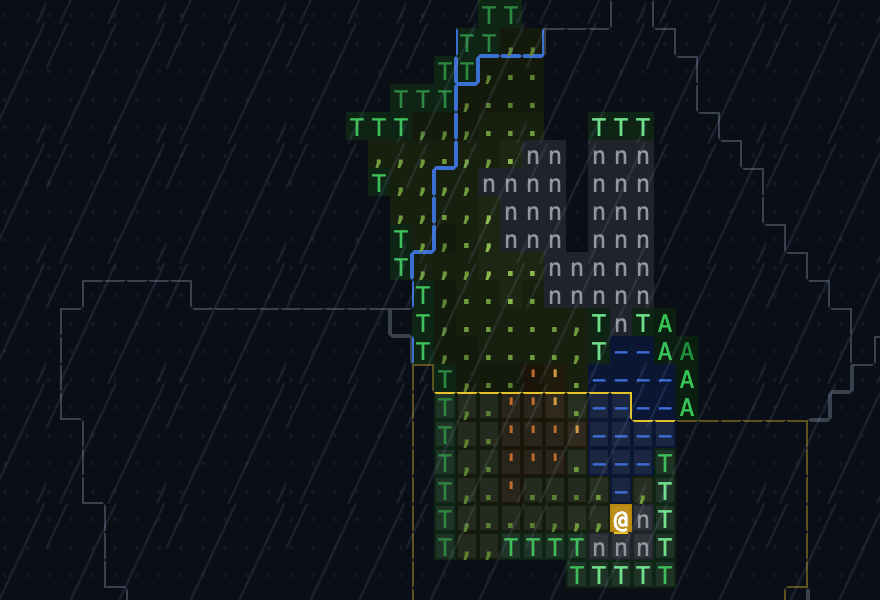
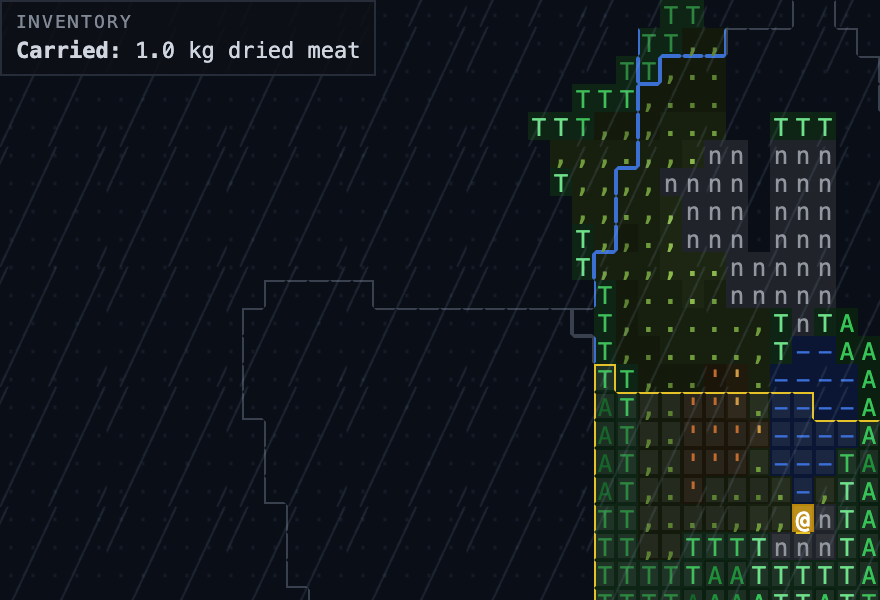
fix(survidle): make map layer order explicit

diff --git a/08-survidle/src/style.css b/08-survidle/src/style.css
@@ -378,7 +378,7 @@ button.act small.warn, span.act small.warn, .opt.off span.act small.warn { color
 }
 /* A place row points out its destination without making ordinary map hover
    leave a highlight behind. main.ts adds and removes this class directly. */
-.grid .c.target { outline: 1px solid var(--accent); outline-offset: -1px; z-index: 2; }
+.grid .c.target { outline: 1px solid var(--accent); outline-offset: -1px; z-index: var(--map-signal); }
 
 /* The ways out, over the map's top right. They sit on the ground they lead
    off rather than at the foot of a panel a player had to find first. */
@@ -438,7 +438,17 @@ button.act small.warn, span.act small.warn, .opt.off span.act small.warn { color
 /* The chain of min-height: 0 that lets the board give way to the panels
    under it: a flex child will not shrink below its content without it, so
    the grid would push the Do pane off the screen instead of scrolling. */
-#mapdyn { position: relative; flex: 1; min-height: 0; display: flex; flex-direction: column; }
+#mapdyn {
+  position: relative; flex: 1; min-height: 0; display: flex; flex-direction: column;
+  /* One stack names every map surface, including controls that are siblings of
+     the viewport. The viewport isolates its own terrain and atmosphere below. */
+  --map-ground: 0;
+  --map-shade: 1;
+  --map-weather: 2;
+  --map-route: 3;
+  --map-signal: 4;
+  --map-control: 5;
+}
 /* The world moves under the survivor; the viewport never pans. A fixed-size
    grid is centred and clipped, while any spare area carries the same grain
    as unknown ground instead of exposing the panel as a black bar. */
@@ -453,7 +463,10 @@ button.act small.warn, span.act small.warn, .opt.off span.act small.warn { color
   background-size: var(--px) var(--line);
   background-position: center;
   --bright: 1; --sat: 1; --tint: rgb(0, 0, 0); --tint-a: 0;
+  /* Ground has no positioned lift. The named layers inherited from #mapdyn
+     keep DOM order from quietly putting weather behind opaque terrain again. */
   position: relative;
+  isolation: isolate;
   filter: saturate(var(--sat));
   transition: filter 0.5s linear;
 }
@@ -481,7 +494,7 @@ button.act small.warn, span.act small.warn, .opt.off span.act small.warn { color
 }
 /* The atmosphere covers the whole viewport, including synthetic unexplored padding. */
 .scroll-x > .shade {
-  position: absolute; inset: 0; pointer-events: none;
+  position: absolute; inset: 0; z-index: var(--map-shade); pointer-events: none;
   background: #000;
   opacity: calc(1 - var(--bright));
   transition: opacity 0.5s linear;
@@ -495,7 +508,7 @@ button.act small.warn, span.act small.warn, .opt.off span.act small.warn { color
    panel of its own. It is nice to have and it is not what anybody came to
    the map to read, so it takes no border and no full-sized type. */
 .maptools {
-  position: absolute; left: 6px; bottom: 6px; z-index: 3;
+  position: absolute; left: 6px; bottom: 6px; z-index: var(--map-control);
   display: flex; gap: 5px; align-items: center;
   font-size: 10px;
   opacity: 0.7;
@@ -513,9 +526,9 @@ button.act small.warn, span.act small.warn, .opt.off span.act small.warn { color
 .grid:focus-visible { outline: 1px solid var(--accent); outline-offset: 2px; }
 .grid .c:focus-visible { outline: 1px solid var(--accent); outline-offset: -1px; }
 .legend .fog-key { color: #4a5160; }
-/* Your walk: a line through the glyph centres, solid ahead, dashed behind. It sits after the shade
-   and carries no z-index, so it is over the night and under the @ and the fire glow. */
-.grid .walk { position: absolute; inset: 0; width: 100%; height: 100%; pointer-events: none; overflow: hidden; }
+/* Your walk: a line through the glyph centres, solid ahead, dashed behind. Its
+   named layer keeps it over weather and night, under the @ and fire glow. */
+.grid .walk { position: absolute; inset: 0; z-index: var(--map-route); width: 100%; height: 100%; pointer-events: none; overflow: hidden; }
 /* non-scaling-stroke keeps the stroke in screen pixels under the stretched viewBox. */
 polyline.walk-ahead, polyline.walk-behind { fill: none; vector-effect: non-scaling-stroke; stroke-linejoin: round; stroke-linecap: round; }
 polyline.walk-ahead { stroke: rgba(230, 194, 41, 0.9); stroke-width: 2px; }
@@ -526,14 +539,14 @@ polyline.walk-behind { stroke: rgba(230, 194, 41, 0.45); stroke-width: 1.5px; st
 .legend .pl-key { text-decoration: underline; text-decoration-color: #e6c229; }
 /* The light of the hour, laid over the glyphs. */
 .scroll-x::after {
-  content: ""; position: absolute; inset: 0; pointer-events: none;
+  content: ""; position: absolute; inset: 0; z-index: var(--map-shade); pointer-events: none;
   background: var(--tint); opacity: var(--tint-a);
   mix-blend-mode: hard-light;
   transition: background 0.5s linear, opacity 0.5s linear;
 }
 /* Falling weather: faint streaks for rain, drifting dots for snow. */
 .scroll-x::before {
-  content: ""; position: absolute; inset: 0; pointer-events: none; opacity: 0;
+  content: ""; position: absolute; inset: 0; z-index: var(--map-weather); pointer-events: none; opacity: 0;
   transition: opacity 0.5s;
 }
 .scroll-x.rain::before {
@@ -700,7 +713,7 @@ polyline.walk-behind { stroke: rgba(230, 194, 41, 0.45); stroke-width: 1.5px; st
  * glow below rather than fog with the shelter and the trap.
  */
 .grid .c.mk { font-weight: bold; position: relative; }
-.grid .c.mk-player, .grid .c.mk-camp, .grid .c.mk-fire, .grid .c.mk-coals { z-index: 1; }
+.grid .c.mk-player, .grid .c.mk-camp, .grid .c.mk-fire, .grid .c.mk-coals { z-index: var(--map-signal); }
 .grid .c.mk-player { color: #fff; background: #b8860b; }
 .grid .c.mk-fire { color: #fff; background: #b8431a; }
 /* Dimmer than mk-fire's #b8431a: the same fire, banked. */
@@ -865,7 +878,7 @@ polyline.walk-behind { stroke: rgba(230, 194, 41, 0.45); stroke-width: 1.5px; st
   animation: flicker 1.1s ease-in-out infinite alternate;
 }
 .grid.night .c.lit-0 {
-  position: relative; z-index: 2;
+  position: relative; z-index: var(--map-signal);
   --f0: #ff7a1a; --f1: #ffb84d;
   animation: flicker 1.1s ease-in-out infinite alternate;
   animation-delay: var(--fd, 0s);
@@ -887,7 +900,7 @@ polyline.walk-behind { stroke: rgba(230, 194, 41, 0.45); stroke-width: 1.5px; st
 }
 .grid.night .c.lit-1, .grid.night .c.lit-2 { position: relative; }
 .grid.night .c.lit-1::after, .grid.night .c.lit-2::after {
-  content: ""; position: absolute; inset: 0; z-index: 2; pointer-events: none;
+  content: ""; position: absolute; inset: 0; z-index: var(--map-signal); pointer-events: none;
   animation: flicker 1.1s ease-in-out infinite alternate;
   animation-delay: var(--fd, 0s);
 }

diff --git a/08-survidle/tests/map-layers.test.ts b/08-survidle/tests/map-layers.test.ts
@@ -1,0 +1,52 @@
+import { readFileSync } from "node:fs";
+import { describe, expect, it } from "vitest";
+import { rule } from "./css";
+
+describe("the map's compositing layers", () => {
+  it("puts weather over the shaded ground and under routes, light, and essential marks", () => {
+    const viewport = rule(".scroll-x");
+    const layers = rule("#mapdyn");
+    expect(viewport).toContain("isolation: isolate");
+    for (const layer of ["ground: 0", "shade: 1", "weather: 2", "route: 3", "signal: 4", "control: 5"]) {
+      expect(layers).toContain(`--map-${layer}`);
+    }
+
+    expect(rule(".scroll-x > .shade")).toContain("z-index: var(--map-shade)");
+    expect(rule(".scroll-x::after")).toContain("z-index: var(--map-shade)");
+    expect(rule(".scroll-x::before")).toContain("z-index: var(--map-weather)");
+    expect(rule(".scroll-x::before")).toContain("pointer-events: none");
+    expect(rule(".grid .walk")).toContain("z-index: var(--map-route)");
+    expect(rule(".grid .c.mk-player, .grid .c.mk-camp, .grid .c.mk-fire, .grid .c.mk-coals"))
+      .toContain("z-index: var(--map-signal)");
+    expect(rule(".grid.night .c.lit-1::after, .grid.night .c.lit-2::after"))
+      .toContain("z-index: var(--map-signal)");
+    expect(rule(".maptools")).toContain("z-index: var(--map-control)");
+  });
+
+  it("keeps both kinds of falling weather animated without taking the pointer", () => {
+    const rain = rule(".scroll-x.rain::before");
+    const snow = rule(".scroll-x.snowing::before");
+    expect(rain).toContain("animation: rainfall");
+    expect(rain).toContain("opacity: 0.35");
+    expect(snow).toContain("animation: snowfall");
+    expect(snow).toContain("opacity: 0.6");
+  });
+
+  it("keeps night firelight and active survivor marks animated above the weather", () => {
+    expect(rule(".grid.night .c.mk-fire")).toContain("animation: flicker");
+    expect(rule(".grid.night .c.lit-0")).toContain("z-index: var(--map-signal)");
+    expect(rule(".grid.night .c.lit-0")).toContain("animation: flicker");
+    expect(rule(".grid .c.mk-player.mood-walk")).toContain("animation: mood-toil");
+    expect(rule(".grid .c.mk-player.mood-work")).toContain("animation: mood-toil");
+  });
+
+  it("makes the visual harness put weather on the same viewport as the game", () => {
+    const shots = readFileSync("scripts/map-shots.mjs", "utf8");
+    expect(shots).toContain('["rain", "season-autumn", "rain"');
+    expect(shots).toContain('["snowing", "season-winter snow", "snowing"');
+    expect(shots).toContain("window.__weather");
+    expect(shots).toContain("viewport.classList.toggle('rain'");
+    expect(shots).toContain("viewport.classList.toggle('snowing'");
+    expect(shots).toContain("viewport.style.setProperty('--bright'");
+  });
+});

diff --git a/08-survidle/tests/layout.test.ts b/08-survidle/tests/layout.test.ts
@@ -228,7 +228,7 @@ describe("what survives the night sheet", () => {
     // light, and its own cell already rises at the close rungs; banked coals
     // are the same light at a lower wattage.
     const lifted = rule(".grid .c.mk-player, .grid .c.mk-camp, .grid .c.mk-fire, .grid .c.mk-coals");
-    expect(lifted).toContain("z-index: 1");
+    expect(lifted).toContain("z-index: var(--map-signal)");
     // The blanket lift on every mark is what put a shore at full daylight
     // brightness at midnight.
     expect(rule(".grid .c.mk")).not.toContain("z-index");

diff --git a/08-survidle/docs/map-shots/README.md b/08-survidle/docs/map-shots/README.md
@@ -33,9 +33,9 @@ condition is reached correctly. The firelight rings are placed by hand.
 - **night-fire** (`season-autumn night +fire`) - firelight over the ground, rings placed by hand
 
   ![night-fire](night-fire.png)
-- **rain** (`season-autumn rain`) - falling weather over the ground
+- **rain** (`season-autumn; rain`) - falling weather over the ground
 
   ![rain](rain.png)
-- **snowing** (`season-winter snow snowing`) - falling weather over the ground
+- **snowing** (`season-winter snow; snowing`) - falling weather over the ground
 
   ![snowing](snowing.png)
